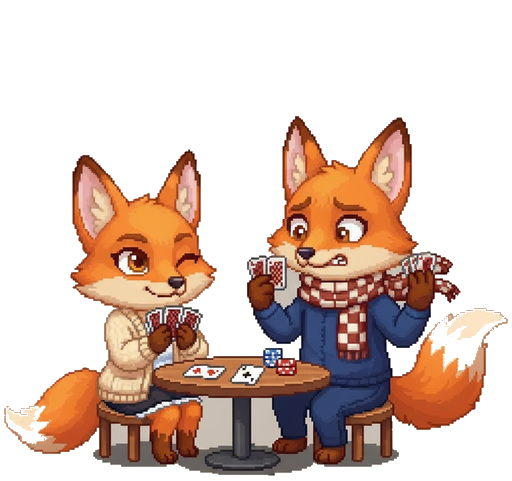
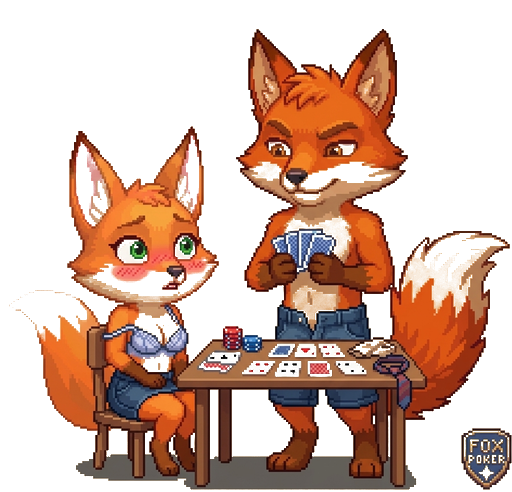
feat: upgrade to gemini-3-flash for game gen, regenerate fox images with better outfits, add section fox thumbnails
- Switch game generation from claude-haiku to gemini-3-flash-preview via Vertex AI (BLOCK_NONE safety settings)
- Upgrade fox image script from gemini-2.5-flash-image to gemini-3.1-flash-image-preview
- Regenerate 13 fox images: more revealing outfits on female fox (short skirts, corset tops), male fox shirtless
- Key fixes: no more police-outfit bleed across scenes, nurse/maid skirts now as short as servant_master
- New ice_play: female fox lying on table, ice applied to sting wound, more grounded pose
- New mirror_selfie: female fox alone with visible mirror and bathroom background
- New pillow_fight: both foxes in minimal sleepwear, feathers flying
- Add 4 neutral-named style reference images to break outfit fixation
- Show small fox thumbnail inside open accordion sections when title/content matches a known scene

diff --git a/app/api/generate/route.ts b/app/api/generate/route.ts
@@ -1,4 +1,4 @@
-import Anthropic from "@anthropic-ai/sdk";
+import { GoogleGenAI } from "@google/genai";
 import { NextResponse } from "next/server";
 
 const SYSTEM_PROMPT = `You are an expert designer of intimate partner games for couples. You draw from a deep toolkit of game mechanics to create experiences that are genuinely playable, surprising, and hot.
@@ -46,12 +46,22 @@ export async function POST(req: Request) {
       ? "IMPORTANT: Generate the ENTIRE game (all titles, durations, and content) strictly in GERMAN language."
       : "IMPORTANT: Generate the ENTIRE game (all titles, durations, and content) strictly in ENGLISH language.";
 
-    const apiKey = process.env.ANTHROPIC_API_KEY;
-    if (!apiKey) {
-      return NextResponse.json({ error: "Missing API key" }, { status: 500 });
+    if (!process.env.GOOGLE_CLOUD_PROJECT) {
+      return NextResponse.json({ error: "Missing GOOGLE_CLOUD_PROJECT" }, { status: 500 });
     }
 
-    const client = new Anthropic({ apiKey });
+    const ai = new GoogleGenAI({
+      vertexai: true,
+      project: process.env.GOOGLE_CLOUD_PROJECT,
+      location: process.env.GOOGLE_CLOUD_LOCATION || "us-central1",
+    });
+
+    const safetySettings = [
+      { category: "HARM_CATEGORY_SEXUALLY_EXPLICIT", threshold: "BLOCK_NONE" },
+      { category: "HARM_CATEGORY_DANGEROUS_CONTENT", threshold: "BLOCK_NONE" },
+      { category: "HARM_CATEGORY_HARASSMENT", threshold: "BLOCK_NONE" },
+      { category: "HARM_CATEGORY_HATE_SPEECH", threshold: "BLOCK_NONE" },
+    ];
 
     let prompt = "";
 
@@ -129,14 +139,17 @@ Output ONLY a JSON object:
 }`;
     }
 
-    const message = await client.messages.create({
-      model: "claude-haiku-4-5-20251001",
-      max_tokens: 4096,
-      system: SYSTEM_PROMPT,
-      messages: [{ role: "user", content: prompt }],
+    const response = await ai.models.generateContent({
+      model: "gemini-3-flash-preview",
+      contents: [{ role: "user", parts: [{ text: prompt }] }],
+      config: {
+        systemInstruction: SYSTEM_PROMPT,
+        maxOutputTokens: 4096,
+        safetySettings,
+      },
     });
 
-    const text = (message.content[0] as any).text;
+    const text = response.text ?? "";
 
     // Strip markdown fences, then find the JSON object
     const stripped = text.replace(/^```(?:json)?\s*/m, '').replace(/```\s*$/m, '').trim();

diff --git a/app/page.tsx b/app/page.tsx
@@ -7,7 +7,7 @@ import { supabase } from "../lib/supabase";
 import { useLanguage } from "./context/LanguageContext";
 import { translations } from "../lib/translations";
 import FoxDisplay from "./components/FoxDisplay";
-import FoxImage from "./components/FoxImage";
+import FoxImage, { detectFoxImage, FOX_IMAGES } from "./components/FoxImage";
 import FoxLoadingVideo from "./components/FoxLoadingVideo";
 
 function Auth() {
@@ -1020,7 +1020,17 @@ function HomeContent({ session }: { session: any }) {
                             </button>
                             {isOpen && (
                               <div className="px-5 pb-5 border-t border-white/[0.04]">
-                                <div className="pt-4">
+                                <div className="pt-4 relative">
+                                  {(() => {
+                                    const sectionKey = detectFoxImage({ title: section.title, content: section.content });
+                                    return sectionKey !== 'default' ? (
+                                      <img
+                                        src={FOX_IMAGES[sectionKey]}
+                                        alt=""
+                                        className="float-right ml-3 mb-2 w-20 h-20 object-contain opacity-80 drop-shadow-md"
+                                      />
+                                    ) : null;
+                                  })()}
                                   <ReactMarkdown components={markdownComponents}>{section.content}</ReactMarkdown>
                                 </div>
                               </div>
